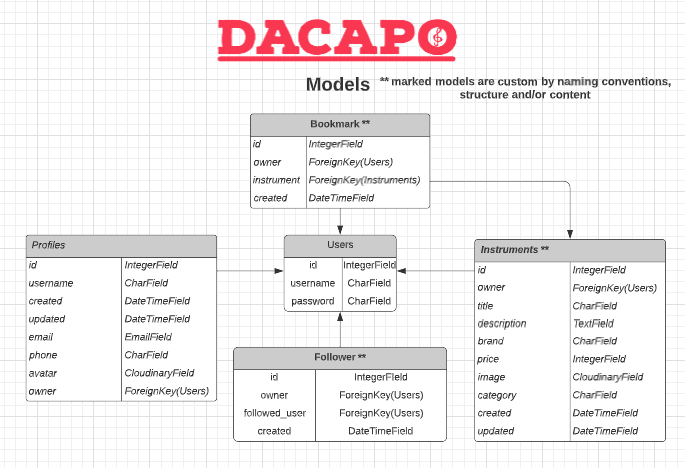
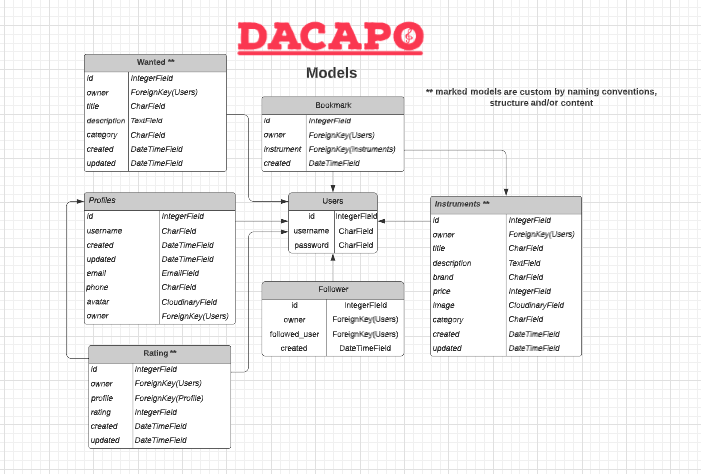
doc: update doc with new apps

diff --git a/README.md b/README.md
@@ -48,7 +48,7 @@ The development process was aligned with the ERD as described, whereby the ERD w
 In the following, the development process is described in more detail: 
 The DRF repository and project were started first. To directly cover all security measures, environment variables (secret key and cloudinary url) were created and committed only after updating the settings. This ensured that no sensitive content was published. 
 
-Subsequently, the profiles, instruments, bookmarks and followers apps were designed, one after the other. It was avoided to work synchronously on different apps and to finish first one app completely. This has some advantages: 
+Subsequently, the profiles, instruments, bookmarks followers, wanted and rating apps were designed, one after the other. It was avoided to work synchronously on different apps and to finish first one app completely. This has some advantages: 
 * Focus on the content and increased concentration
 * Better overview (less open tabs in the editor)
 * Faster development
@@ -63,12 +63,14 @@ At first, the views were supposed to use the APIView to write more explicit code
 
 
 Once the base of all apps was in place, more features were added towards the end of API development. These included among others: 
-- Implementation of count method in bookmarks, followers and instruments to show the current state of the data.
-- The use of a search field for instruments.
-- The creation of filters in instruments and profiles (e.g. filter by instrument category or by popularity).
-- Pagination.
-- Cosmetic changes like the DateTime format.
-- The development of a compressed root url with useful hints (endpoints). 
+* Implementation of count method in bookmarks, followers and instruments to show the current state of the data.
+* The use of a search field for instruments.
+* The creation of filters in instruments and profiles (e.g. filter by instrument category or by popularity).
+* Pagination.
+* Cosmetic changes like the DateTime format.
+* The development of a compressed root url with useful hints (endpoints). 
+* The addition of the rating and wanted apps, which were added after the project was actually done, because these functionalites would be nice to have (and to guarantee custom models).
+
 
 Before deployment, however, the JSON web tokens and authentication still had to be set up. 
 Besides installing the required dependencies (e.g. rest_framework.authtoken, dj_rest_auth, allauth etc.) the settings were adjusted to define the variable "REST_FRAMWORK" and the JWT variables. 
@@ -82,13 +84,17 @@ Last but not least, automatic tests were written for each app (except profiles).
 
 Although the CRUD functionalities can be found at the top of the documentation (root route), they are summarized here once again in a clear manner. Users can: 
 
-- create a profile.
-- list all profiles.
-- retrieve a profile and update their own.
-- list all instruments and create a new instrument.
-- retrieve a single instrument and retrieve and delete their own entries. 
-- retrieve, create and delete a bookmark if they are authenticated.
-- retrieve, create and delete a following entry if they are authenticated. 
+* create a profile.
+* list all profiles.
+* retrieve a profile and update their own.
+* list all instruments and create a new instrument.
+* retrieve a single instrument and retrieve and delete their own entries. 
+* retrieve, create and delete a bookmark if they are authenticated.
+* retrieve, create and delete a following entry if they are authenticated. 
+* list the rating overview and create a rating for a user
+* retrieve a single rating, update and delete it if authenticated.
+* list and create a wanted item.
+* get, update and delete a wanted item, if you are the owner.
 
 
 ## Testing 
@@ -97,7 +103,7 @@ The API was tested manually as well as automatically. For a better overview, the
 
 **Manual testing**
 
-Manual testing of the API was done in development mode to get the useful feedback from django on bugs. The built-in django API user interface was used to run through all possible scenarios. Via the terminal 3 users were created, who then created different instruments, then updated or deleted them. The fictitious users interacted via the bookmark and follow function and no logical errors, bugs or anomalies were found. 
+Manual testing of the API was done in development mode to get the useful feedback from django on bugs. The built-in django API user interface was used to run through all possible scenarios. Via the terminal 3 users were created, who then created different instruments, then updated or deleted them. The fictitious users interacted via the bookmark, follow and rating function and no logical errors, bugs or anomalies were found. 
 
 Apart from a few typos, there were no major errors during development. The biggest and most time consuming error was a wrong setting during the deployment. 
 
@@ -105,9 +111,9 @@ This resulted in a 400 status code when launching the API. It turned out relativ
 
 **Automatic testing**
 
-A small test suite was also written for each app. The profiles app is excluded from this because it is used in conjunction with the other apps anyway and is therefore tested and because a crucial operation, namely the creation of profiles, takes place with django signals. A test suite therefore seemed rather inappropriate. 
+A test suite was also written for each app. The profiles app is excluded from this because it is used in conjunction with the other apps anyway and is therefore tested and because a crucial operation, namely the creation of profiles, takes place with django signals. A test suite therefore seemed rather inappropriate. 
 
-For the instruments, bookmarks and followers app the following tests were written:
+For the instruments, bookmarks, followers, wanted and rating app the following tests were written:
 
 **Instruments**
 * can view instruments
@@ -130,9 +136,26 @@ For the instruments, bookmarks and followers app the following tests were writte
 * user not logged in cant follow user
 * user logged in can unfollow user
 
+**Wanted**
+* can view wanted
+* logged in user can created wanted
+* user not logged in cant create wanted
+* can get wanted using valid id 
+* cant get wanted using invalid id
+* user can update own wanted
+* user cant update foreign wanted
+
+**Rating**
+* can view rating
+* logged in user can rate users
+* user not logged in cant rate user
+* user logged in can delete rating
+* user logged in can update rating
+
+
 These tests do not claim to be complete or to cover 100% of all cases, which no suite should do, as unexpected cases can always occur. However, they do provide a robust framework, making the API resilient to many errors. If, while you read this documentation, you notice that important, critical tests are missing, I would appreciate feedback. You can find all the tests in the specific app folder under tests.py.
 
-The suite consists of 15 tests, all of which pass at the time of project release.
+The suite consists of 27 tests, all of which pass at the time of project release.
 ![Test suite](./static/img/documentation/automatic-tests.png  "Test suite")
 
 
@@ -163,6 +186,11 @@ Only one error occurred during deployment, which has already been dealt with und
 **PEP8**
 
 All files conform to the PEP8 style guidelines. The exception to this is settings.py (list of AUTH_PASSWORD_VALIDATORS), as this is already created this way. In order not to endanger the integrity of the app, the lines were not shortened, but left as they are. 
+
+
+**Naming conventions**
+
+In the API project, you can see that the apps are always defined in the plural form (instruments, bookmarks etc.), except rating and wanted, which was done intentionally. There is no plural of "wanted" and the ratings are understood as a global rating, hence the singular. When using the urls you should pay attention to this change!  It is therefore not a break with the conventions, but circumstances that do not allow it otherwise. 
 
 **Security**
 
@@ -214,10 +242,12 @@ sqlparse==0.4.3
 
 **Custom models**
 
-The API consists of 4 custom models. However, since the profiles app is not evaluated, it consists of 3 custom models. What is custom? 
+The API consists of at least 3 custom models. These are: Instrument, Rating and Wanted. 
+You could even argue there are 5 custom models. 
 
-According to the definition, these are models that have either been created completely by the student, or previously used models that have been modified / altered. 
-Instruments is a model that I created myself. The models in bookmarks and followers were modified to meet my needs. To what extent have they been modified? Mainly the structure in the code is different. This is because I tried to learn everything by heart and not copy anything blindly. 
+According to the definition, custom models that have either been created completely by the student, or previously used models that have been modified / altered. 
+
+Instruments, Wanted and Rating are models that I created myself. The models in bookmarks and followers were modified to meet my needs. To what extent have they been modified? Mainly the structure in the code is different. This is because I tried to learn everything by heart and not copy anything blindly. 
 So imports, expressions and the general arrangement are completely different. Also, other (variable-) names were used to make the code more readable. This makes them fundamentally different from the already known models, although there are also many similarities.
 
 The main reason for this is the declarative language of the Django Rest framework and the fact that a lot is done "under the hood" by Django. 
@@ -227,3 +257,5 @@ The main reason for this is the declarative language of the Django Rest framewor
 At this point I would like to thank the Code Institute instructors and team for providing the materials for Django REST Framework. The lessons were a good guide for building this API. 
 
 Also, the ensuing documentation from DRF was frequently referenced: https://www.django-rest-framework.org/
+
+I also want to give credit to Timur Bakibayev, author of the following article: https://medium.com/geekculture/django-implementing-star-rating-e1deff03bb1c. The idea to implement a rating model in a specific way was derived from this article. 
